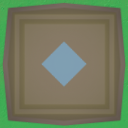
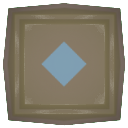
added new tile art + comments

diff --git a/TacticalWarfare/src/mainframe/Game.java b/TacticalWarfare/src/mainframe/Game.java
@@ -430,6 +430,7 @@ public class Game extends Listener{
 		
 		bitmap = new Bitmap();
 		
+		//create map and server unit
 		generateMap();
 //		loadUnits();
 		Player newplayer = new Player(1, serverPlayerId);
@@ -449,7 +450,7 @@ public class Game extends Listener{
 		units.add(serverUnit);
 		
 
-		
+		//rendering variables
 		final double[] textureCoords = {0, 0, 0, 1, 1, 0, 1, 1};
 		final int[] indices = {0, 1, 2, 2, 1, 3};
 		final double[] placeholder = {0, 0, 0, 0, 0, 0, 0, 0};
@@ -532,27 +533,31 @@ public class Game extends Listener{
 			
 			projectTrueWindowCoordinates();
 			
+			//render sidebar
 			gametextures.loadTexture(10);
 			model.setTextureCoords(textureCoords);
 			model.render(gameScreenWidth, 0, WINDOW_WIDTH, WINDOW_HEIGHT);
 			
+			//render day/night bar
 			gametextures.loadTexture(11);
 			double shift = ((double) tick / (double) ticksPerDay) - 0.3;
 			model.setTextureCoords(new double[] {0 + shift, 0, 0 + shift, 1, 0.2 + shift, 0, 0.2 + shift, 1});
 			model.render(gameScreenWidth + 20, 40, gameScreenWidth + 180, 75);
 			
+			//render red flag and score
 			gametextures.loadTexture(12);
 			model.setTextureCoords(textureCoords);
 			model.render(gameScreenWidth + 10, 100, gameScreenWidth + 60, 150);
 			bitmap.drawNumber(gameScreenWidth + 70, 110, gameScreenWidth + 95, 140, red_score);
 			
-			
+			//render blue flag and score
 			gametextures.loadTexture(13);
 			model.render(gameScreenWidth + 10, 160, gameScreenWidth + 60, 210);
 			bitmap.drawNumber(gameScreenWidth + 70, 170, gameScreenWidth + 95, 200, blue_score);
 			
 			glDisable(GL_TEXTURE_2D);
 			
+			//update light level
 			tick++;
 			if(tick > ticksPerDay) {
 				tick = 0;
@@ -584,6 +589,7 @@ public class Game extends Listener{
 			checkProjectiles();
 			respawnUnits();
 			
+			//move camera to unit position if unitTracking is true
 			if(unitTracking && selectedUnitsId.size() != 0) {
 				double avgX = 0;
 				double avgY = 0;
@@ -632,6 +638,7 @@ public class Game extends Listener{
 		new Game().run();
 	}
 	
+	//loop through all capture points
 	public void updateCapturePoints() {
 		for (int i = 0; i < mapWidth; i++) {
 			for (int j = 0; j < mapHeight; j++) {
@@ -642,6 +649,7 @@ public class Game extends Listener{
 		}
 	}
 	
+	//check to see if capture points have changed teams
 	public void checkCapturePoint(int tileX, int tileY) {
 		int capturingColor = 0;
 		for (int i = 0; i < units.size(); i++) {
@@ -676,6 +684,7 @@ public class Game extends Listener{
 		}
 	}
 	
+	//move units if WASD keys are pressed
 	public void moveUnitsManual(ArrayList<Integer> movingUnits, boolean left, boolean up, boolean right, boolean down) {
 		if(movingUnits.isEmpty()) {
 			return;
@@ -707,6 +716,7 @@ public class Game extends Listener{
 		}
 	}
 	
+	//fire arrow projectile
 	public void fireProjectile(ArrayList<Integer> firingUnits) {
 		if(firingUnits.isEmpty()) {
 			return;
@@ -721,6 +731,7 @@ public class Game extends Listener{
 		}
 	}
 	
+	//lay trap weapon
 	public void setMine(ArrayList<Integer> firingUnits) {
 		if(firingUnits.isEmpty()) {
 			return;
@@ -735,6 +746,7 @@ public class Game extends Listener{
 		}
 	}
 	
+	//generate map
 	public void generateMap(){
 		mapWidth = 30;
 		mapHeight = 20;
@@ -743,11 +755,25 @@ public class Game extends Listener{
 		redSpawns.add(new int[] {2, mapHeight / 2 - 1}); //add red spawnpoint
 		blueSpawns.add(new int[] {mapWidth - 4, mapHeight / 2 - 1}); //add blue spawnpoint
 		map = new int[mapWidth][mapHeight];
+		//set a random terrain for each tile
 		for (int i = 0; i < mapWidth; i++) {
 			for (int j = 0; j < mapHeight; j++) {
-				map[i][j] = random.nextInt(4) + 1;
+				int seed = random.nextInt(10);
+				if(seed <= 1) {
+					map[i][j] = 1;
+				}
+				else if(seed <= 6) {
+					map[i][j] = 2;
+				}
+				else if(seed <= 8) {
+					map[i][j] = 3;
+				}
+				else if(seed <= 9) {
+					map[i][j] = 4;
+				}
 			}
 		}
+		//create red spawnpoint
 		for (int i = 0; i < redSpawns.size(); i++) {
 			int[] current = redSpawns.get(i);
 			map[current[0]][current[1]] = 2;
@@ -756,6 +782,7 @@ public class Game extends Listener{
 			map[current[0] + 1][current[1] + 1] = 2;
 			
 		}
+		//create blue spawnpoint
 		for (int i = 0; i < blueSpawns.size(); i++) {
 			int[] current = blueSpawns.get(i);
 			map[current[0]][current[1]] = 2;
@@ -767,6 +794,7 @@ public class Game extends Listener{
 		loadMap();
 	}
 	
+	//initalize tiles
 	public void loadMap(){
 		tiles = new Tile[mapWidth][mapHeight];
 		for (int x = 0; x < mapWidth; x++) {
@@ -975,6 +1003,7 @@ public class Game extends Listener{
 		}
 	}
 	
+	//respawn units with less than 0 health
 	public void respawnUnits() {
 		for(Unit u : units) {
 			if(u.getHealth() <= 0) {
@@ -995,12 +1024,14 @@ public class Game extends Listener{
 		}
 	}
 	
+	//calls the unit constructor
 	public Unit createUnit(int newownerid, String newteam, double newx, double newy, double newangle, int newcolor){
 		Unit u = new Unit(unitId, newownerid, newteam, newx, newy, newangle, newcolor, new int[] {0, worldWidth, 0, worldHeight});
 		unitId++;
 		return u;
 	}
 	
+	//screen projection based on relative camera coordinates
 	public void projectRelativeCameraCoordinates(){
 		glMatrixMode(GL_PROJECTION);
         glLoadIdentity(); // Resets any previous projection matrices
@@ -1008,6 +1039,7 @@ public class Game extends Listener{
         glMatrixMode(GL_MODELVIEW);
 	}
 	
+	//screen projection based on true window coordinates
 	public void projectTrueWindowCoordinates(){
 		glMatrixMode(GL_PROJECTION);
         glLoadIdentity(); // Resets any previous projection matrices
@@ -1015,6 +1047,7 @@ public class Game extends Listener{
         glMatrixMode(GL_MODELVIEW);
 	}
 	
+	//scalars to help calculation
 	public double getWidthScalar(){
 		return(double) cameraWidth / (double) WINDOW_WIDTH;
 	}
@@ -1032,6 +1065,7 @@ public class Game extends Listener{
 	}
 	
 	
+	//zoom camera in or out
 	public void updateZoomLevel(boolean zoomOut){
 		DoubleBuffer xpos = BufferUtils.createDoubleBuffer(3);
 		DoubleBuffer ypos = BufferUtils.createDoubleBuffer(3);

diff --git a/TacticalWarfare/src/mainframe/Tile.java b/TacticalWarfare/src/mainframe/Tile.java
@@ -6,9 +6,9 @@ public class Tile {
 	static int tileWidth = 64;
 	static int tileHeight = 64;
 	
-	final static Texture tex1 = new Texture("mountain.png");
-	final static Texture tex2 = new Texture("grass.png");
-	final static Texture tex3 = new Texture("forest.png");
+	final static Texture tex1 = new Texture("rock.png");
+	final static Texture tex2 = new Texture("grass_tiles.png");
+	final static Texture tex3 = new Texture("forest_tiles_v2.png");
 	final static Texture tex4 = new Texture("neutralflag.png");
 	final static Texture tex5 = new Texture("redflag.png");
 	final static Texture tex6 = new Texture("blueflag.png");
